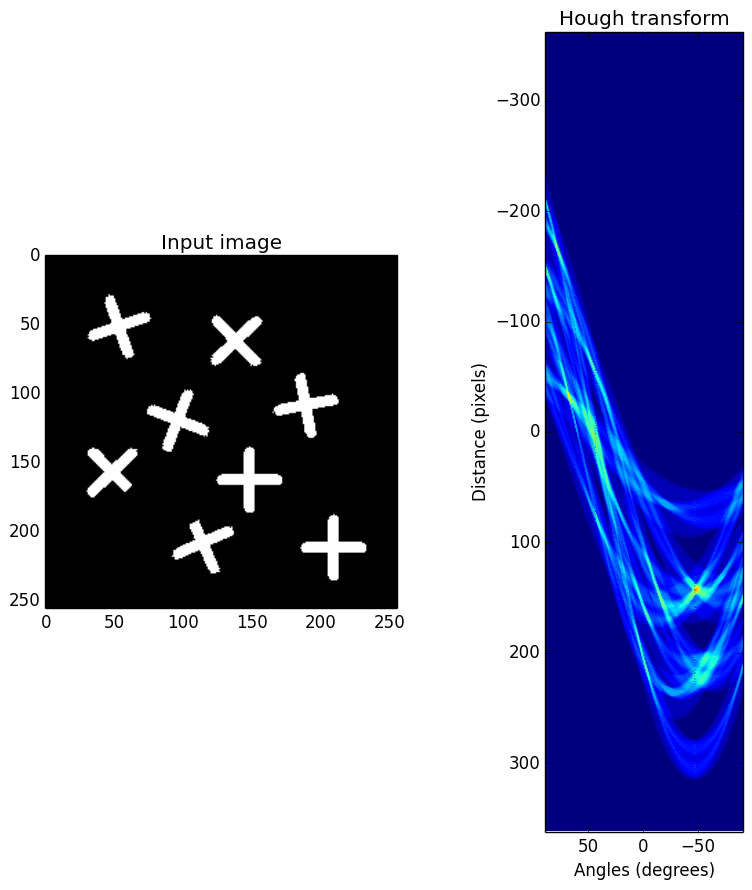
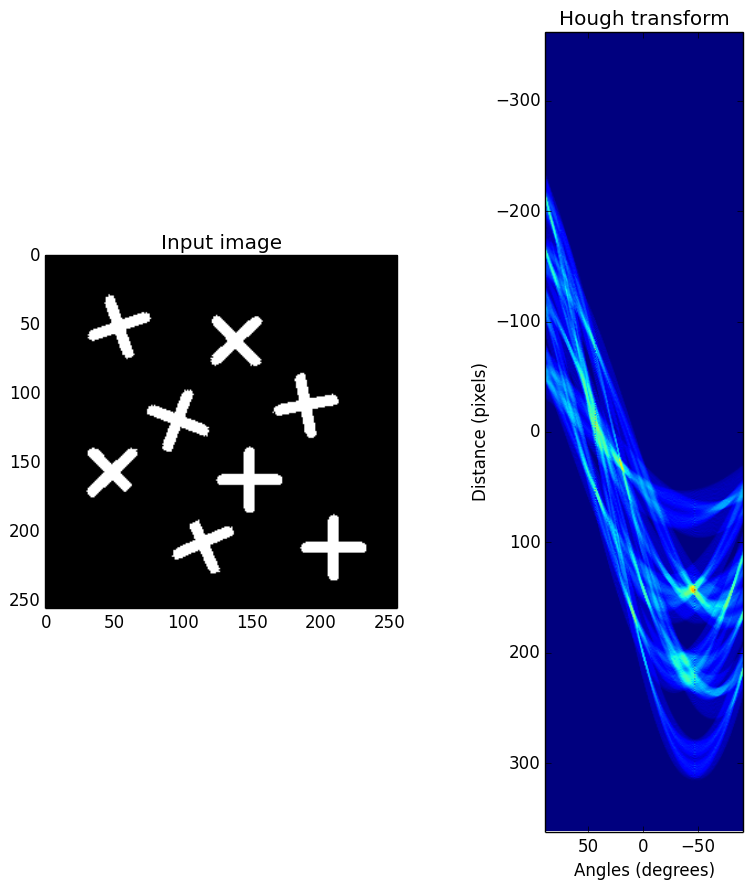
Fixed indices

Changed region(s): [[0.7035, 0.2124, 1.0, 0.8191]]

diff --git a/hough_transform.py b/hough_transform.py
@@ -28,7 +28,7 @@ def hough_line(img, angle_step=1):
 
   # accumulator array of theta vs rho
   accumulator = np.zeros((2 * diag_len, num_thetas), dtype=np.uint64)
-  x_idxs, y_idxs = np.nonzero(img)
+  y_idxs, x_idxs = np.nonzero(img)
 
   for i in range(len(x_idxs)):
     x = x_idxs[i]
@@ -36,7 +36,6 @@ def hough_line(img, angle_step=1):
 
     for t_idx in range(num_thetas):
       rho = round(x * cos_t[t_idx] + y * sin_t[t_idx]) + diag_len
-      #print x, y, rho, thetas[t_idx] * 180/np.pi
       accumulator[rho, t_idx] += 1
 
   return accumulator, thetas, rhos
